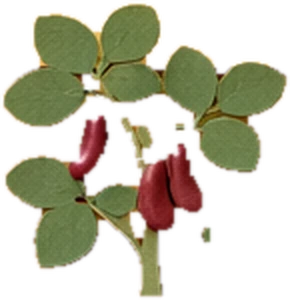
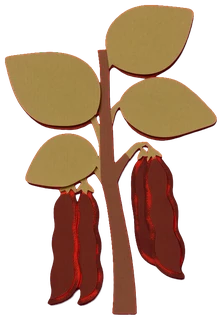
팥죽 팥 포기를 종이 질감 새 그림으로 교체
Claude-Session: https://claude.ai/code/session_01LNk5ZqxZZjA2bBcEAsTsQ1

diff --git a/tales/patjuk/patjuk.js b/tales/patjuk/patjuk.js
@@ -199,9 +199,9 @@
         // 팥 포기: 밭 띠 위 두 줄 (배경 그림이라 배우는 그 앞에 선다)
         if (full) {
           // [x, 바닥선 y, 높이, 좌우 뒤집기, 포기 번호, 불투명도]: 가까운 띠(1.0배) 3포기 · 먼 띠(0.6배) 4포기. 장면 그림에 그려진 포기를 오려 쓴 것
-          [[120, 420, 92, 0, 1, 1], [420, 422, 88, 1, 2, 1], [820, 420, 92, 0, 2, 1],
-           [215, 345, 56, 1, 2, .85], [380, 342, 54, 0, 1, .85], [600, 344, 56, 1, 1, .85], [940, 342, 54, 0, 2, .85]].forEach(([x, y, h, fl, n, op]) => {
-            const w = h * (n === 1 ? .99 : .97);
+          [[120, 420, 84, 0, 1, 1], [420, 422, 80, 1, 2, 1], [820, 420, 84, 0, 2, 1],
+           [215, 345, 50, 1, 2, .85], [380, 342, 48, 0, 1, .85], [600, 344, 50, 1, 1, .85], [940, 342, 48, 0, 2, .85]].forEach(([x, y, h, fl, n, op]) => {
+            const w = h * (n === 1 ? .71 : .69);
             img(bg, `v3w/pj_bean_cluster${n}.webp`, x - w / 2, y - h, w, h, 'xMidYMax meet', { class: 'prop', opacity: op, ...(fl ? { transform: `translate(${2 * x},0) scale(-1,1)` } : {}) });
           });
         }
